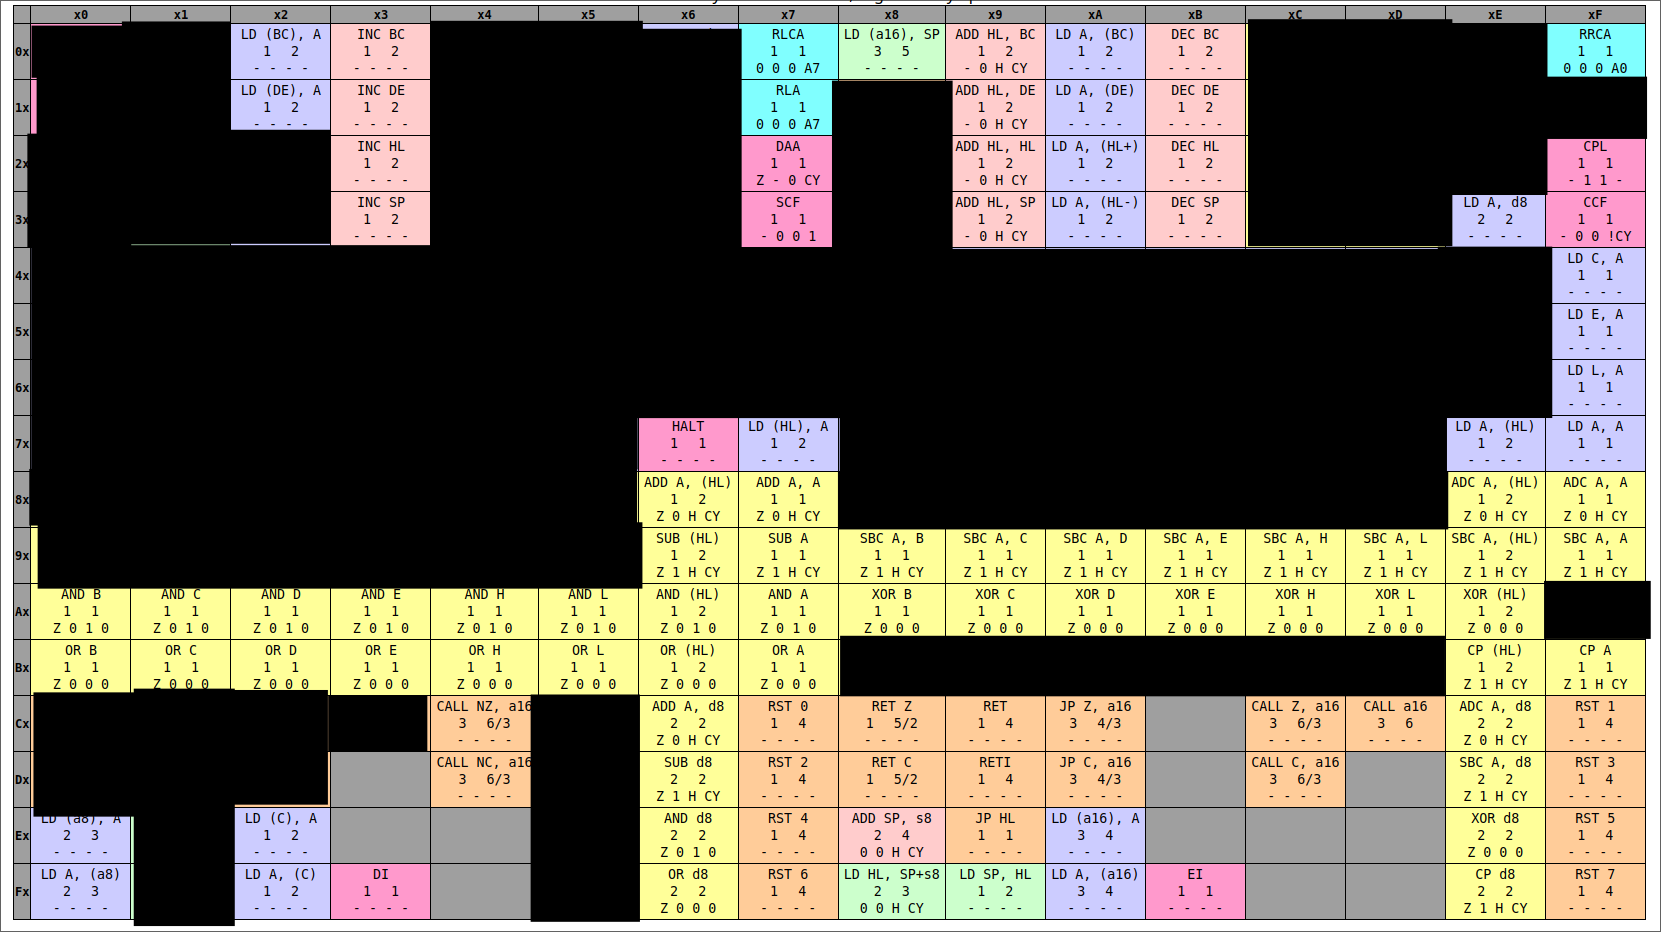
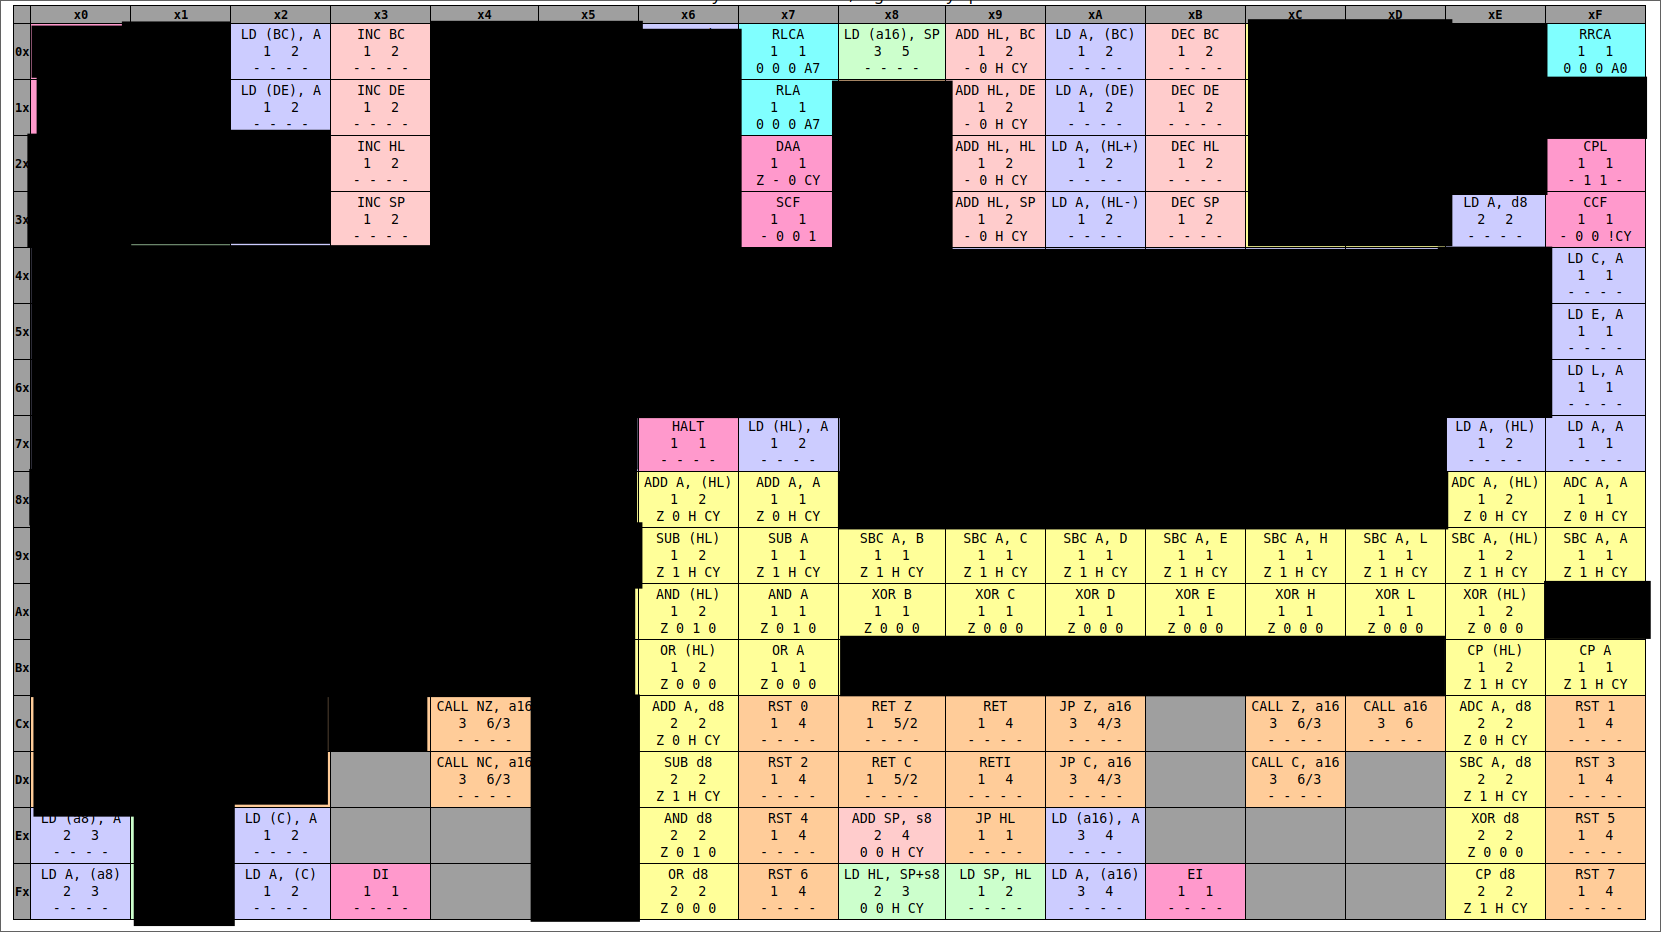
added instructions

Changed region(s): [[0.0, 0.5601, 0.3992, 0.7468]]

diff --git a/cpu/translator.c b/cpu/translator.c
@@ -92,12 +92,21 @@ void exec_1(uint8_t opcode, uint8_t *registers, uint16_t *program_counter, uint1
         reg_store(mem_load(reg_load16(3, registers), memory), LD_IM_TRANSLATION[VERTICAL_INDEX(opcode, 0xe) + 3], registers);
         inc(program_counter);
 
+    }else if(opcode == 0x77) // LD mem, A
+    {
+        mem_store(reg_load(0, registers), reg_load16(3, registers), memory);
+        inc(program_counter);
     }else if(IN_RANGE(opcode, 0x80, 0x85)) // ADD A, reg
     {
         add(LD_REG_TRANSLATION[opcode-0x80], registers);
 
         // after instruction execution increment program counter
         inc(program_counter);
+    }else if(IN_VERTICAL_RANGE(opcode, 0x9, 0x0, 0x2)) // ADD HL, reg16
+    {
+       add16(VERTICAL_INDEX(opcode, 0x9)+1, registers);
+
+       inc(program_counter);
     }else if(IN_RANGE(opcode, 0x88, 0x8d)) // adc A, reg
     {
         adc(LD_REG_TRANSLATION[opcode-0x88], registers);
@@ -107,6 +116,22 @@ void exec_1(uint8_t opcode, uint8_t *registers, uint16_t *program_counter, uint1
     }else if (IN_RANGE(opcode, 0x90, 0x95)) // SUB, A, reg 
     {
         sub(LD_REG_TRANSLATION[opcode-0x90], registers);
+
+        inc(program_counter);
+    }else if (IN_RANGE(opcode, 0xA0, 0xA5)) // AND, A, reg 
+    {
+        uint8_t result = reg_load(LD_REG_TRANSLATION[opcode-0xA0], registers) & reg_load(0, registers);
+        struct reg_flags flags = {result == 0, 0, 1, 0};
+        set_flags(flags, registers);
+        reg_store(result, 0, registers);
+
+        inc(program_counter);
+    }else if (IN_RANGE(opcode, 0xB0, 0xB5)) // OR, A, reg 
+    {
+        uint8_t result = reg_load(LD_REG_TRANSLATION[opcode-0xB0], registers) | reg_load(0, registers);
+        struct reg_flags flags = {result == 0, 0, 0, 0};
+        set_flags(flags, registers);
+        reg_store(result, 0, registers);
 
         inc(program_counter);
     }else if(IN_VERTICAL_RANGE(opcode, 0x4, 0x0, 0x2)) // inc reg
@@ -160,11 +185,34 @@ void exec_1(uint8_t opcode, uint8_t *registers, uint16_t *program_counter, uint1
     }else if(opcode == 0x1f) // RRA
     {
         uint8_t value = reg_load(0, registers);
-        bool new_carry = value & 1;
-        value >>= 1;
-        value = (value & 0b01111111) | ((get_flags(registers).carry << 7) & 0b10000000);
+        value = value >> 1;
+        value = (value & 0b01111111) | ((get_flags(registers).carry << 7)  & 0b10000000);
+        reg_store(value, 0, registers);
+        set_zero(0, registers);
+        set_half_carry(0, registers);
+        set_subtract(0, registers);
+        inc(program_counter);
+    }else if(opcode == 0x17) // RLA
+    {
+        uint8_t value = reg_load(0, registers);
+        value = value << 1;
+        value = (value & 0b11111110) | (get_flags(registers).carry  & 0b00000001);
+        reg_store(value, 0, registers);
+        set_zero(0, registers);
+        set_half_carry(0, registers);
+        set_subtract(0, registers);
+        inc(program_counter);
+    }else if(opcode == 0x7) // RLCA
+    {
+        uint8_t value = reg_load(0, registers);
+        bool new_carry = GET_END_BIT(value);
+        value = value << 1;
+        value = (value & 0b11111110) | (new_carry & 1);
         reg_store(value, 0, registers);
         set_carry(new_carry, registers);
+        set_zero(0, registers);
+        set_half_carry(0, registers);
+        set_subtract(0, registers);
         inc(program_counter);
     }else if(opcode == 0xAf) // xor a
     {
@@ -183,6 +231,11 @@ void exec_1(uint8_t opcode, uint8_t *registers, uint16_t *program_counter, uint1
         // go to next instruction
         inc(program_counter);
 
+    }else if(opcode == 0xbf)
+    {
+        struct reg_flags flags = {0, 0, 0, 0};
+        set_flags(flags, registers);
+        inc(program_counter);
     }else if(opcode == 0xc1 || opcode == 0xd1 || opcode == 0xe1 || opcode == 0xf1) // POP reg
     {
         // each pop does 2 8 bit pops
@@ -362,7 +415,8 @@ void exec_2(uint8_t opcode, uint8_t param, uint8_t* registers, uint16_t* program
     }
 }
 
-void exec_3(uint8_t opcode, uint8_t param1, uint8_t param2, uint8_t *registers, uint16_t *program_counter, uint8_t *memory)
+void exec_3(uint8_t opcode, uint8_t param1, uint8_t param2, uint8_t *registers, uint16_t *program_counter, uint16_t *stack_pointer, uint8_t *memory)
+
 {
     uint16_t param = COMBINE_BYTES(param2, param1);
     if(opcode == 0xc2) //JP NZ, a16 
@@ -391,6 +445,10 @@ void exec_3(uint8_t opcode, uint8_t param1, uint8_t param2, uint8_t *registers, 
             jmp(program_counter, 3);    
         }
 
+    }else if(opcode == 0x8) // LD (a16) SP
+    {
+        mem_store(*stack_pointer, param, memory);
+        jmp(program_counter, 3);
     }else if(IN_VERTICAL_RANGE(opcode, 0x1, 0x0, 0x2)) // LD reg, 16bit
     {
         reg_store16(param, VERTICAL_INDEX(opcode, 0x1) + 1, registers);

diff --git a/cpu/registers.c b/cpu/registers.c
@@ -169,30 +169,30 @@ uint16_t reg_load16(size_t reg_ind, uint8_t *registers)
     if (reg_ind >= 4)
     {printf("reg_ind: %zd, is not a valid 16 bit register address.\n", reg_ind);}
 
-    uint8_t reg1;
-    uint8_t reg2;
+    uint8_t hi;
+    uint8_t lo;
 
     switch (reg_ind) {
         case 0:
-            reg1 = registers[5];
-            reg2 = registers[0];
+            hi = registers[0];
+            lo = registers[5];
             break;
         case 1:
-            reg1 = registers[2];
-            reg2 = registers[1];
+            hi = registers[1];
+            lo = registers[2];
             break;
         case 2:
-            reg1 = registers[4];
-            reg2 = registers[3];
+            hi = registers[3];
+            lo = registers[4];
             break;
         case 3:
-            reg1 = registers[7];
-            reg2 = registers[6];
+            hi = registers[6];
+            lo = registers[7];
             break;
     }
     // convert both registers to 16 bits
-    uint16_t value1 = (uint16_t) reg1;
-    uint16_t value2 = (uint16_t) ((reg2 << 8) & 0xff00);
+    uint16_t value1 = ((uint16_t) lo) & 0x00ff;
+    uint16_t value2 = (uint16_t) ((hi << 8) & 0xff00);
 
     // combine the values and return
     return value1 | value2;
@@ -222,25 +222,25 @@ void reg_store16(uint16_t value, size_t reg_ind, uint8_t *registers)
     {printf("reg_ind: %zd, is not a valid 16 bit register address.\n", reg_ind);}
 
 
-    uint8_t reg1 = (uint8_t)(value & 0xff); // get the first 8 bits
-    uint8_t reg2 = (uint8_t)(value >> 8) & 0xff; // get the last 8 bits
+    uint8_t lo = (uint8_t)(value & 0xff); // get the first 8 bits
+    uint8_t hi = (uint8_t)(value >> 8) & 0xff; // get the last 8 bits
     
     switch (reg_ind) {
     case 0:
-        registers[5] = reg1;
-        registers[0] = reg2;
+        registers[0] = hi;
+        registers[5] = lo;
         break;
     case 1:
-        registers[2] = reg1;
-        registers[1] = reg2;
+        registers[1] = hi;
+        registers[2] = lo;
         break;
     case 2:
-        registers[4] = reg1;
-        registers[3] = reg2;
+        registers[3] = hi;
+        registers[4] = lo;
         break;
     case 3:
-        registers[7] = reg1;
-        registers[6] = reg2;
+        registers[6] = hi;
+        registers[7] = lo;
         break;
     }
 }

diff --git a/main.c b/main.c
@@ -11,7 +11,7 @@
 #define STEPWISE
 
 #define LEN_2_OPCODES_LEN 16
-#define LEN_3_OPCODES_LEN 6
+#define LEN_3_OPCODES_LEN 7
 
 size_t get_exectution_len(uint8_t opcode)
 {
@@ -24,7 +24,7 @@ size_t get_exectution_len(uint8_t opcode)
         }
     }
 
-    uint8_t len_3_opcodes[LEN_3_OPCODES_LEN] = {0xc2, 0xd2, 0xc3, 0x01, 0x11, 0x21};
+    uint8_t len_3_opcodes[LEN_3_OPCODES_LEN] = {0xc2, 0xd2, 0xc3, 0x01, 0x11, 0x21, 0x08};
     for (int i = 0; i < LEN_3_OPCODES_LEN; i++)
     {
         if (opcode == len_3_opcodes[i])
@@ -85,7 +85,7 @@ int main(int argc, char** argv)
             exec_2(byte, memory[program_counter + 1], registers, &program_counter, memory);
         }else if (len == 3) 
         {
-            exec_3(byte, memory[program_counter + 1], memory[program_counter + 2], registers, &program_counter, memory);
+            exec_3(byte, memory[program_counter + 1], memory[program_counter + 2], registers, &program_counter, &stack_pointer, memory);
         }
         
         #ifdef STEPWISE

diff --git a/cpu/alu.c b/cpu/alu.c
@@ -1,5 +1,6 @@
 #include "alu.h"
 #include "registers.h"
+#include <stddef.h>
 #include <stdint.h>
 #include <stdbool.h>
 /*
@@ -18,6 +19,18 @@ void add(size_t target, uint8_t *registers)
     set_flags(flags, registers);
 
     reg_store((uint8_t)result, 0, registers);   
+}
+
+void add16(size_t target, uint8_t* registers)
+{
+    uint32_t result = reg_load16(3, registers) + reg_load16(target, registers);
+
+    // set all of the flags
+    set_subtract(0, registers);
+    set_half_carry(result > 0xff, registers);
+    set_carry(result > 0xffff, registers);
+
+    reg_store16((uint16_t)result, 3, registers);  
 }
 
 /*
@@ -46,7 +59,7 @@ void sub(size_t target, uint8_t *registers)
     uint16_t result = registers[0] + ((uint8_t)(-registers[target]));
     
     // set all of the flags
-    struct reg_flags flags = {result == 0, false, result > 0xf, result > 0xff};
+    struct reg_flags flags = {result == 0, true, result > 0xf, result > 0xff};
     
     set_flags(flags, registers);
 

diff --git a/cpu/translator.h b/cpu/translator.h
@@ -1,7 +1,6 @@
 #ifndef TRANSLATOR_H
 #define TRANSLATOR_H
 
-
 #include <stdint.h>
 
 /*
@@ -18,5 +17,5 @@ void exec_2(uint8_t opcode, uint8_t param, uint8_t* registers, uint16_t* program
 /*
  * executes all instructions with a length of 3 bytes
  */
-void exec_3(uint8_t opcode, uint8_t param1, uint8_t param2, uint8_t* registers, uint16_t* program_counter, uint8_t* memory);
+void exec_3(uint8_t opcode, uint8_t param1, uint8_t param2, uint8_t* registers, uint16_t* program_counter, uint16_t *stack_pointer, uint8_t* memory);
 #endif

diff --git a/tests/test_alu.c b/tests/test_alu.c
@@ -2,6 +2,7 @@
 #include "../cpu/registers.h"
 #include <assert.h>
 #include <stdbool.h>
+#include <stdint.h>
 #include <stdlib.h>
 
 void test_add()
@@ -76,10 +77,21 @@ void test_add()
 
     free(registers);
 }
+void test_add16()
+{
+    uint8_t* registers = reg_init();
 
+    reg_store(0xdf, 7, registers);
+    reg_store(0xfd, 6, registers);
+    add16(3, registers);
+
+    printf("HL: 0x%x\n", reg_load16(3, registers));
+    assert(reg_load16(3, registers) == 0xfbbe);
+}
 
 
 int main()
 {
     test_add();
+    test_add16();
 }

diff --git a/tests/test_registers.c b/tests/test_registers.c
@@ -16,8 +16,8 @@ int main()
     reg_store(38, 5, registers);
     assert(reg_load(5, registers) == 38);
 
-    reg_store16(1256, 3, registers);
-    assert(reg_load16(3, registers) == 1256);
+    reg_store16(0xFDBC, 3, registers);
+    assert(reg_load16(3, registers) == 0xFDBC);
 
     struct reg_flags flags = {0, 1, 1, 0};
 

diff --git a/cpu/alu.h b/cpu/alu.h
@@ -13,6 +13,11 @@
 void add(size_t target, uint8_t* registers);
 
 /*
+ * adds the 16bit values in register HL and target into HL
+ */
+void add16(size_t target, uint8_t* registers);
+
+/*
  * adds the values in register a, target and the carry flag into a
  * sets flags Z, N, H, C
  */

diff --git a/libs/binary.h b/libs/binary.h
@@ -4,5 +4,7 @@
 #include <stdint.h>
 
 #define COMBINE_BYTES(hi, lo) (((uint16_t)lo) & 0x00ff) | ((((uint16_t)hi ) << 8) & 0xff00)
+#define GET_END_BIT(x) (x >> 7) & 1
+#define GET_START_BIT(x) x & 1
 
 #endif
